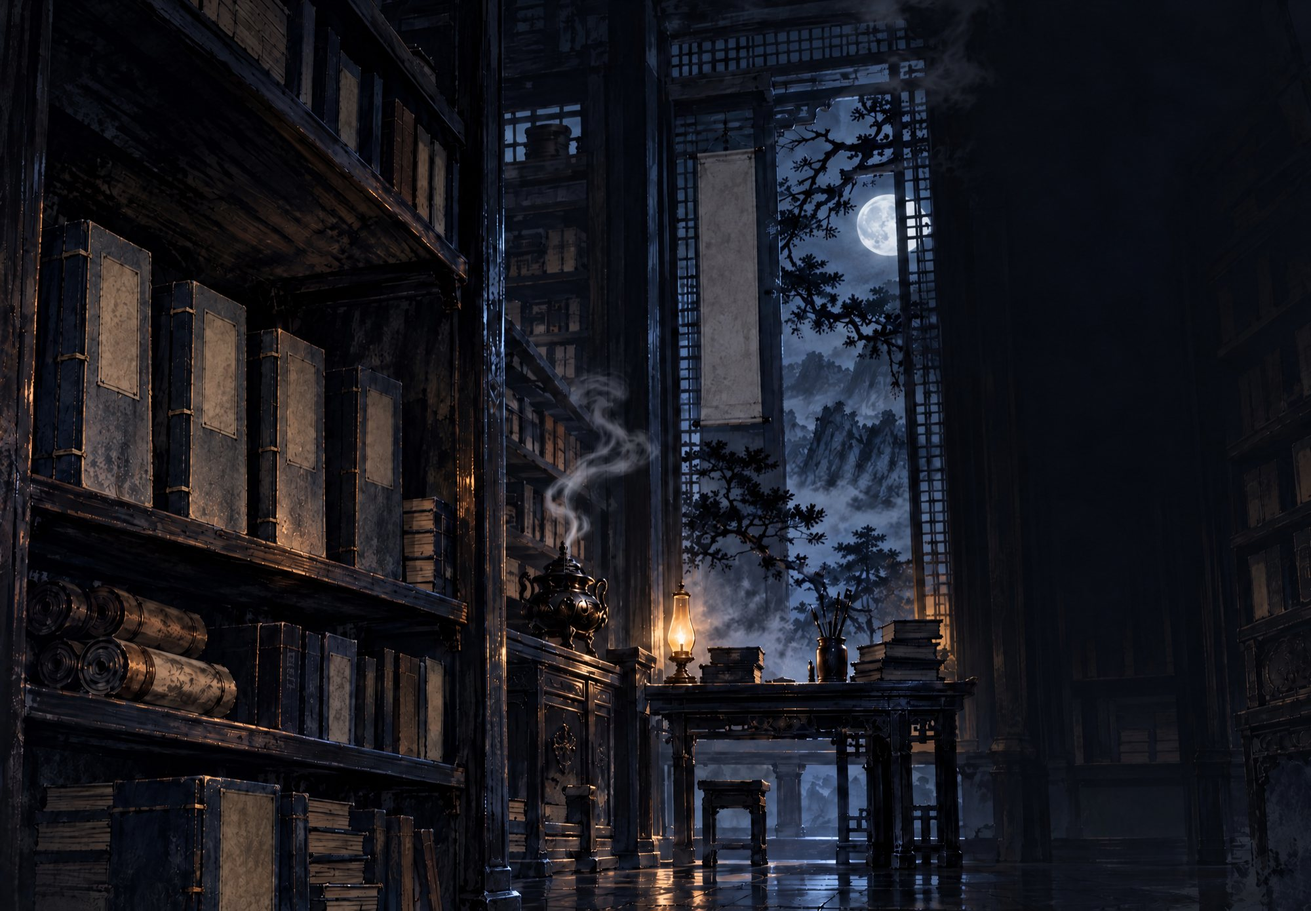
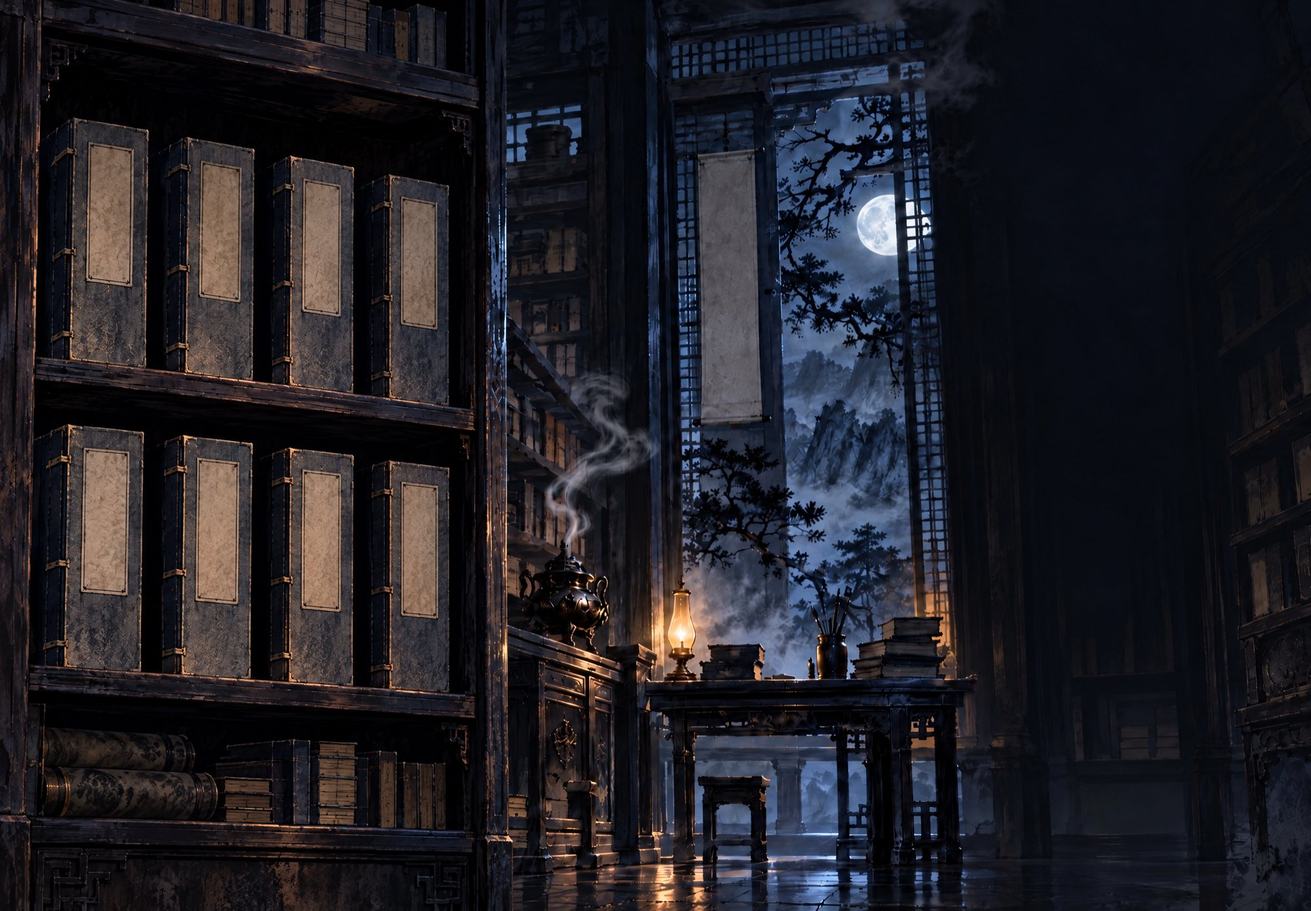
docs(sect-overhaul): 典籍院、天工库改为画中点选，右侧只写选中物卷宗

diff --git a/docs/design/sect-overhaul-prototype.html b/docs/design/sect-overhaul-prototype.html
@@ -198,61 +198,56 @@ button { font: inherit; color: inherit; }
 @keyframes sx-puff { 0% { opacity: 0; transform: translate(0, 0) scale(.5); } 15% { opacity: .8; } 100% { opacity: 0; transform: translate(var(--dx), calc(var(--aw) * -.07)) scale(1.8, 2.4); } }
 
 /* ═══ 典籍院 / 天工库：右侧一列可换之物 + 选中详情 ═══ */
-.sx-list { display: grid; }
-.sx-row { display: flex; align-items: center; gap: 14px; border: 0; background: none; cursor: pointer; padding: 8px 6px 8px 4px; position: relative; text-align: left; color: var(--ink); text-shadow: inherit; opacity: .6; transition: opacity .2s; }
-.sx-row::after { content: ''; position: absolute; left: -4px; right: 0; bottom: 0; height: 3px; background: oklch(0.6 0.02 85 / .22); -webkit-mask: var(--BRUSH) center / 100% 100%; mask: var(--BRUSH) center / 100% 100%; }
-.sx-row svg { width: 26px; height: 26px; flex: none; fill: none; stroke: var(--ink-gold); stroke-width: 1.3; stroke-linecap: round; stroke-linejoin: round; opacity: .8; }
-.sx-row .rn { font-family: var(--font-display); font-size: 17px; letter-spacing: .14em; white-space: nowrap; }
-.sx-row .rp { margin-left: auto; font-size: 12px; letter-spacing: .14em; color: var(--faint); white-space: nowrap; }
-.sx-row .rp b { font-size: 17px; font-weight: 600; letter-spacing: 0; color: var(--ink-gold); margin-right: 4px; }
-.sx-row .rp.own { font-size: 14px; letter-spacing: .3em; color: var(--faint); }
-.sx-row:hover { opacity: .85; }
-.sx-row.on { opacity: 1; background: linear-gradient(to right, oklch(0.78 0.13 78 / .16), oklch(0.78 0.13 78 / .05) 55%, transparent 90%); }
-.sx-row.on svg { opacity: 1; stroke: var(--gold); filter: drop-shadow(0 0 4px oklch(0.78 0.13 78 / .5)); }
-.sx-row.fresh { animation: sx-fresh 1.4s var(--ease); }
-@keyframes sx-fresh { 0% { background: oklch(0.78 0.13 78 / .18); } 100% { background: transparent; } }
-.sx-row:focus-visible { outline: 1.5px solid var(--gold); outline-offset: 2px; }
-.sx-price { display: inline-flex; align-items: baseline; gap: 6px; margin-top: 18px; position: relative; }
-.sx-price b { font-size: 30px; font-weight: 600; color: var(--gold); }
-.sx-price span { font-size: 15px; letter-spacing: .2em; color: var(--muted); }
-.sx-price.short b { color: var(--short); }
-.sx-price.own b { font-size: 20px; letter-spacing: .4em; color: var(--muted); font-weight: 600; }
-/* 列表与详情之间：── ◆ ── */
-.sx-orn { display: flex; align-items: center; gap: 10px; margin: 18px 0 18px; }
-.sx-orn::before, .sx-orn::after { content: ''; flex: 1; height: 1px; }
-.sx-orn::before { background: linear-gradient(to right, transparent, oklch(0.75 0.075 76 / .5)); }
-.sx-orn::after { background: linear-gradient(to left, transparent, oklch(0.75 0.075 76 / .5)); }
-.sx-orn i { width: 7px; height: 7px; transform: rotate(45deg); border: 1px solid oklch(0.75 0.075 76 / .75); position: relative; }
-.sx-orn i::after { content: ''; position: absolute; inset: 1.5px; background: oklch(0.75 0.075 76 / .7); }
-.sx-orn b { width: 3px; height: 3px; transform: rotate(45deg); background: oklch(0.75 0.075 76 / .5); }
-/* 详情卡 */
-.sx-card .nmrow { display: flex; align-items: baseline; gap: 12px; }
-.sx-card h2 { margin: 0; font-family: var(--font-display); font-size: 32px; font-weight: 700; letter-spacing: .16em; line-height: 1.2; white-space: nowrap; }
-.sx-card .gtag { margin-left: auto; flex: none; font-size: 13px; letter-spacing: .14em; color: var(--ink-gold); white-space: nowrap; }
-.sx-chop { display: inline-block; margin-left: 8px; font-family: var(--font-display); font-size: 11px; letter-spacing: .1em; color: oklch(0.95 0.02 85); background: var(--seal-red);
-  padding: 1px 4px; border-radius: 2px; transform: rotate(-4deg) translateY(-2px); text-shadow: none; cursor: help; }
-.sx-attrs { display: grid; grid-template-columns: 1fr 1fr; column-gap: 22px; margin: 14px 0 0; }
-.sx-attrs .a { display: flex; align-items: baseline; gap: 10px; padding: 8px 2px 7px; position: relative; }
-.sx-attrs .a::after { content: ''; position: absolute; left: -4px; right: 0; bottom: 0; height: 3px; background: oklch(0.6 0.02 85 / .26); -webkit-mask: var(--BRUSH) center / 100% 100%; mask: var(--BRUSH) center / 100% 100%; }
+/* ═══ 典籍院 / 天工库：画中货位（函套书签 / 兵器匣面）可点，右侧只写选中物 ═══ */
+.sx-slot { position: absolute; border: 0; padding: 0; background: none; cursor: default; }
+.sx-slot .lit { position: absolute; inset: 0; opacity: 0; mix-blend-mode: screen; transition: opacity .3s, filter .3s; pointer-events: none; }
+.sx-slot .halo { position: absolute; opacity: 0; pointer-events: none; mix-blend-mode: screen; transition: opacity .3s; }
+.sx-slot .nm { position: absolute; display: flex; flex-direction: column; align-items: center; justify-content: center; gap: .12em; writing-mode: vertical-rl; pointer-events: none;
+  font-family: var(--font-body); font-weight: 700; line-height: 1; letter-spacing: .08em; white-space: nowrap; }
+.sx-slot .nm small { font-size: .62em; letter-spacing: .1em; opacity: .85; }
+.sx-slot.on { cursor: pointer; }
+.sx-slot.on .lit { opacity: .55; } .sx-slot.on .halo { opacity: .35; }
+.sx-slot.on:hover .lit { opacity: .78; } .sx-slot.on:hover .halo { opacity: .6; }
+.sx-slot.sel .lit { opacity: .95; filter: brightness(1.15); } .sx-slot.sel .halo { opacity: 1; }
+.sx-slot.on:focus-visible { outline: 1.5px solid var(--gold); outline-offset: 3px; }
+/* 函套：书签是米色纸，墨字；光只铺在纸签上，柔光晕在整只函套 */
+.sx-slot.book .lit { background: radial-gradient(ellipse 85% 70% at 50% 45%, oklch(0.62 0.09 75 / .8), oklch(0.45 0.07 65 / .55)); }
+.sx-slot.book .halo { inset: -22% -70%; background: radial-gradient(ellipse 50% 50% at 50% 50%, oklch(0.72 0.12 72 / .3), transparent 70%); }
+.sx-slot.book .nm { inset: 4% 0; color: oklch(0.2 0.03 50); text-shadow: 0 0 5px oklch(0.88 0.06 80 / .5); }
+/* 兵器匣：漆木匣面，泥金字 */
+.sx-slot.box .lit { background: radial-gradient(ellipse 70% 55% at 50% 40%, oklch(0.55 0.12 50 / .7), oklch(0.35 0.08 35 / .35) 70%, transparent); }
+.sx-slot.box .halo { inset: -6% -40%; background: radial-gradient(ellipse 50% 50% at 50% 45%, oklch(0.7 0.13 65 / .28), transparent 70%); }
+.sx-slot.box .nm { left: 0; right: 0; top: var(--nt); height: var(--nh); color: oklch(0.86 0.1 82); text-shadow: 0 0 6px #000, 0 0 2px #000; }
+.sx-tagl { position: absolute; border-radius: 2px; pointer-events: none; opacity: 0; mix-blend-mode: screen; transition: opacity .3s;
+  background: radial-gradient(ellipse 70% 60% at 50% 45%, oklch(0.62 0.1 70 / .8), oklch(0.45 0.08 60 / .4)); }
+.sx-tagl.on { opacity: .55; } .sx-tagl.sel { opacity: .95; }
+/* 已得：画中落一枚小朱印 */
+.sx-seal { position: absolute; left: 50%; bottom: 3%; transform: translateX(-50%) rotate(-6deg); writing-mode: vertical-rl; pointer-events: none;
+  font-family: var(--font-display); font-weight: 700; line-height: 1.05; letter-spacing: 0; padding: .18em .1em; border-radius: 2px;
+  color: oklch(0.95 0.02 85); background: oklch(0.5 0.17 28 / .9); box-shadow: 0 0 0 1px oklch(0.5 0.17 28 / .5); }
+.sx-slot.box .sx-seal { bottom: auto; top: calc(var(--nt) + var(--nh) + 2%); }
+.sx-slot.own .nm { opacity: .78; }
+.sx-slot.book.own .nm { bottom: 26%; }
+.sx-seal.pop { animation: sx-stamp .55s var(--ease); }
+@keyframes sx-stamp { 0% { opacity: 0; transform: translateX(-50%) rotate(-6deg) scale(2.2); } 100% { opacity: 1; transform: translateX(-50%) rotate(-6deg) scale(1); } }
+/* 右侧卷宗：细暗金线分节 */
+.sx-rule { height: 1px; margin: 18px 0; background: linear-gradient(to right, oklch(0.75 0.075 76 / .45), oklch(0.75 0.075 76 / .22) 70%, transparent); }
+.sx-attrs { display: grid; grid-template-columns: 1fr 1fr; column-gap: 22px; row-gap: 12px; margin: 0; }
+.sx-attrs .a { display: flex; align-items: baseline; gap: 10px; }
 .sx-attrs .a.wide { grid-column: 1 / -1; }
 .sx-attrs dt { font-size: 14px; letter-spacing: .08em; color: var(--faint); white-space: nowrap; }
 .sx-attrs dd { margin: 0; font-size: 18px; font-weight: 600; color: var(--ink); white-space: nowrap; }
 .sx-attrs .a.wide dd { font-size: 16px; }
 .sx-attrs dd[data-tip] { cursor: help; }
 .sx-attrs dd[data-tip]:hover { color: var(--gold); }
+.sx-chop { display: inline-block; font-family: var(--font-display); font-size: 13px; font-weight: 700; letter-spacing: .1em; color: oklch(0.95 0.02 85); background: var(--seal-red);
+  padding: 2px 5px; border-radius: 2px; transform: rotate(-4deg); text-shadow: none; }
+.sx-cost { display: flex; align-items: baseline; gap: 8px; font-size: 15px; letter-spacing: .2em; color: var(--muted); position: relative; }
+.sx-cost b { font-size: 26px; font-weight: 600; letter-spacing: 0; color: var(--gold); }
+.sx-cost.short b { color: var(--short); cursor: help; }
+.sx-cost.own { color: var(--muted); letter-spacing: .5em; font-family: var(--font-display); font-size: 18px; }
 .sx-card .scroll-btn { margin-top: 20px; }
-.sx-own { display: block; width: max-content; margin: 22px auto 0; padding: 7px 16px 7px 22px; font-family: var(--font-display); font-size: 18px; font-weight: 700; letter-spacing: .5em;
-  color: var(--cinnabar); border: 1.5px solid oklch(0.66 0.14 32 / .7); border-radius: 3px; transform: rotate(-4deg); text-shadow: none; opacity: .85; }
-.sx-own-gap { height: 74px; display: flex; align-items: center; }
-/* 货多（地位高）时收紧行距，按钮不压到底边 */
-.sx-insc.dense .sx-row { padding: 4px 6px 4px 4px; }
-.sx-insc.dense .sx-row svg { width: 22px; height: 22px; }
-.sx-insc.dense .sx-orn { margin: 12px 0 12px; }
-.sx-insc.dense .sx-card h2 { font-size: 28px; }
-.sx-insc.dense .sx-desc { margin-top: 8px; line-height: 1.7; }
-.sx-insc.dense .sx-attrs { margin-top: 8px; }
-.sx-insc.dense .sx-attrs .a { padding: 5px 2px 4px; }
-.sx-insc.dense .scroll-btn { margin-top: 14px; height: 62px; }
+.sx-own-gap { height: 92px; }
 
 /* 操作反馈：浮在对象旁 */
 .sx-float { position: absolute; transform: translate(-50%, -50%); pointer-events: none; white-space: nowrap; z-index: 8; font-family: var(--font-display); font-size: 20px; font-weight: 700; letter-spacing: .2em;
@@ -329,9 +324,10 @@ button { font: inherit; color: inherit; }
   </section>
 
   <!-- 典籍院 / 天工库（同一格局，换底图与货） -->
-  <section class="sx-view" id="vShop" data-img="hall-dianji.jpg" data-over="1.18" data-anchor="1" data-dark=".73">
+  <section class="sx-view" id="vShop" data-img="hall-dianji.jpg" data-over="1" data-anchor="0" data-dark=".73" data-vy=".6" data-tmin="252">
     <div class="sx-art">
       <div class="sx-pic"><div class="img"></div><div class="tone"></div><div class="vig"></div></div>
+      <div id="slots"></div>
     </div>
     <div class="sx-shade"><div class="sx-paper"></div></div>
     <header class="sx-head">
@@ -371,28 +367,43 @@ const GATES = [
    装备 = engine/gear.ts rollBase：兵器重型 攻击 = 0.036 × 100 × 1.7^(当量−1) × GRADE_BASE × 1.08（浮动取中值 1.0）；词条取区间中值 × GRADE_AFFIX
    价格是占位 */
 const GRADE_COLOR = { 上乘: 'oklch(0.78 0.09 215)', 极品: 'oklch(0.72 0.16 50)' };
+const NG_TIP = { qi: '真气上限倍率', hh: '每重火候折合境界的倍率' };
+const ROUTE_TIP = { 狂澜: '快剑爆发 · 短战最强', 惊鸿: '身法奇快 · 一招多击' };
+/* 货位坐标（占画幅 %）
+   典籍院：s = 书签纸面 [左, 上, 宽, 高]，书名写在这里
+   天工库：s = 匣面 [左, 上, 宽, 高]（点选范围），n = 名字区 [上, 高]（匣面中上部、门环之上），t = 匣下小木牌 [左, 上, 宽, 高] */
 const SHOPS = {
-  dianji: { title: '典籍院', img: 'hall-dianji.jpg', items: [
-    { n: '疾雨剑法', g: '寻常 · 剑法', ic: 'sword', p: 300, lv: 1, desc: '檐声急雨，剑影疏灯。',
+  dianji: { title: '典籍院', img: 'hall-dianji.jpg', kind: 'book', slots: [
+    { s: [6.65, 15.7, 3.45, 15.7] }, { s: [15.25, 17.8, 3.05, 15.25] }, { s: [23.05, 19.6, 2.9, 15.1] }, { s: [30.55, 21.6, 2.7, 14.4] },
+    { s: [6.25, 49.1, 3.6, 16.0] }, { s: [14.95, 50.4, 3.2, 15.8] }, { s: [22.95, 51.6, 2.95, 16.0] }, { s: [30.55, 53.0, 2.8, 15.5] } ],
+    items: [
+    { n: '疾雨剑法', g: '寻常 · 剑法', p: 300, lv: 1, desc: '檐声急雨，剑影疏灯。',
       at: [['伤害倍率', '×148%'], ['触发几率', '12%'], ['真气消耗', '190'], ['附加特效', '连击', '第一式 44% 追加一次普攻']] },
-    { n: '百川诀', g: '入门 · 内功', ic: 'book', p: 0, lv: 1, desc: '纳百川入丹田，涓滴汇海，久久自成气象。',
-      at: [['气海', '×1.0', '真气上限倍率'], ['火候', '×1.00', '每重折合境界的倍率'], ['会心率', '+10%', '狂澜一路'], ['会心伤害', '+20%', '狂澜一路']] },
-    { n: '惊鸿照影剑 · 残页', t: '惊鸿照影剑', g: '上乘 · 剑法残页', ic: 'leaf', p: 600, lv: 2, desc: '惊鸿曾照影，剑过不留痕。',
+    { n: '百川诀', g: '入门 · 内功', p: 0, lv: 1, desc: '纳百川入丹田，涓滴汇海，久久自成气象。', route: '狂澜',
+      at: [['气海', '×1.0', NG_TIP.qi], ['火候', '×1.00', NG_TIP.hh]] },
+    { n: '惊鸿照影剑', sub: '残页', g: '上乘 · 剑法残页', p: 600, lv: 2, desc: '惊鸿曾照影，剑过不留痕。',
       at: [['伤害倍率', '×190%'], ['触发几率', '9%'], ['真气消耗', '400'], ['附加特效', '回气', '第一式返还耗气 50%']] },
-    { n: '沧海功', g: '进阶 · 内功', ic: 'book', p: 1800, lv: 3, desc: '气如沧海潮生，一呼一吸之间，有吞吐浪涛之势。',
-      at: [['气海', '×1.1', '真气上限倍率'], ['火候', '×1.02', '每重折合境界的倍率'], ['会心率', '+10%', '狂澜一路'], ['会心伤害', '+20%', '狂澜一路']] },
-    { n: '飞泉诀', g: '进阶 · 内功', chop: '惊鸿', ic: 'book', p: 1800, lv: 3, desc: '借山间飞泉之意，气走如瀑，一落未尽，一落又起。',
-      at: [['气海', '×1.1', '真气上限倍率'], ['火候', '×1.02', '每重折合境界的倍率'], ['追加几率', '30%', '每次出手后追加一击'], ['追加倍率', '65%', '追加一击的伤害']] },
-    { n: '苍崖九叠剑 · 残页', t: '苍崖九叠剑', g: '绝学 · 剑法残页', ic: 'leaf', p: 2400, lv: 4, desc: '苍崖云九叠，孤剑雪千秋。',
+    { n: '沧海功', g: '进阶 · 内功', p: 1800, lv: 3, desc: '气如沧海潮生，一呼一吸之间，有吞吐浪涛之势。', route: '狂澜',
+      at: [['气海', '×1.1', NG_TIP.qi], ['火候', '×1.02', NG_TIP.hh]] },
+    { n: '飞泉诀', g: '进阶 · 内功', p: 1800, lv: 3, desc: '借山间飞泉之意，气走如瀑，一落未尽，一落又起。', route: '惊鸿',
+      at: [['气海', '×1.1', NG_TIP.qi], ['火候', '×1.02', NG_TIP.hh]] },
+    { n: '苍崖九叠剑', sub: '残页', g: '绝学 · 剑法残页', p: 2400, lv: 4, desc: '苍崖云九叠，孤剑雪千秋。',
       at: [['伤害倍率', '×236%'], ['触发几率', '3%'], ['真气消耗', '550'], ['附加特效', '必暴', '第一式必定会心 · 会心伤害 +5%']] },
-    { n: '落星沉海剑 · 残页', t: '落星沉海剑', g: '绝学 · 剑法残页', ic: 'leaf', p: 2400, lv: 4, desc: '星垂沧海夜，剑落暮潮寒。',
+    { n: '落星沉海剑', sub: '残页', g: '绝学 · 剑法残页', p: 2400, lv: 4, desc: '星垂沧海夜，剑落暮潮寒。',
       at: [['伤害倍率', '×236%'], ['触发几率', '5%'], ['真气消耗', '550'], ['附加特效', '蓄势', '本场每出过一招，本式倍率 +10%']] },
-    { n: '沧溟真经', g: '镇派 · 内功', ic: 'book', p: 6000, lv: 5, desc: '苍崖历代掌门心血所凝，修到深处，内息如沧溟无底。',
-      at: [['气海', '×1.2', '真气上限倍率'], ['火候', '×1.04', '每重折合境界的倍率'], ['会心率', '+10%', '狂澜一路'], ['会心伤害', '+20%', '狂澜一路']] } ] },
-  tiangong: { title: '天工库', img: 'hall-tiangong.jpg', items: [
-    { n: '松纹剑', g: '兵器 · 剑', grade: '上乘', ic: 'blade', p: 900, lv: 2, desc: '采苍崖后山寒铁所铸，剑身隐有古松纹理。',
+    { n: '沧溟真经', g: '镇派 · 内功', p: 6000, lv: 5, desc: '苍崖历代掌门心血所凝，修到深处，内息如沧溟无底。', route: '狂澜',
+      at: [['气海', '×1.2', NG_TIP.qi], ['火候', '×1.04', NG_TIP.hh]] } ] },
+  tiangong: { title: '天工库', img: 'hall-tiangong.jpg', kind: 'box', slots: [
+    { s: [4.75, 14.4, 4.75, 54.7], n: [5, 40], t: [4.35, 74.8, 2.3, 7.8] },
+    { s: [11.5, 20.9, 4.5, 49.6], n: [5, 40], t: [11.75, 76.3, 2.0, 6.8] },
+    { s: [17.75, 25.9, 3.65, 46], n: [5, 40], t: [18.0, 76.8, 1.75, 6.6] },
+    { s: [23, 30.9, 3, 42.1], n: [5, 40], t: [23.25, 77.6, 1.5, 6.3] },
+    { s: [27.4, 35.3, 2.5, 38.5], n: [5, 40], t: [27.75, 78.1, 1.35, 6.0] },
+    { s: [31.25, 38.5, 2, 36], n: [5, 40], t: [31.5, 78.6, 1.25, 5.6] } ],
+    items: [
+    { n: '松纹剑', g: '兵器 · 剑', grade: '上乘', p: 900, lv: 2, desc: '采苍崖后山寒铁所铸，剑身隐有古松纹理。',
       at: [['攻击', '17'], ['品阶', '上乘'], ['词条', '攻击 +2% · 会心率 +1%', null, true]] },
-    { n: '听涛剑', g: '兵器 · 剑', grade: '极品', ic: 'blade', p: 4800, lv: 5, desc: '剑成之日置于崖顶七夜，挥动时隐有松涛之声。',
+    { n: '听涛剑', g: '兵器 · 剑', grade: '极品', p: 4800, lv: 5, desc: '剑成之日置于崖顶七夜，挥动时隐有松涛之声。',
       at: [['攻击', '76'], ['品阶', '极品'], ['词条', '攻击 +2% · 会心伤害 +2%', null, true]] } ] },
 };
 const LORE = {
@@ -404,12 +415,6 @@ const LORE = {
   赴论剑会: '江湖诸派齐聚论剑，代本门登台，胜负关乎苍崖声名。',
 };
 const PAPER = '剑者心之器也藏锋于鞘不露其芒苍崖之上云起九叠孤松立雪寒泉漱石门中弟子晨起洒扫暮而习剑寒暑不辍凡入门者先修其心后习其技心正则剑正心乱则剑乱古之剑客重诺轻生一言既出千金不易';
-const ICON = {
-  sword: '<svg viewBox="0 0 26 26"><path d="M21.5 4.5 9 17"/><path d="M21.5 4.5 20 9.5 10.5 19 7 15.5 16.5 6Z"/><path d="M6 14.5 11.5 20M8 18l-3.5 3.5"/></svg>',
-  blade: '<svg viewBox="0 0 26 26"><path d="M13 2.5v15"/><path d="M11 4.5 13 2.5l2 2v13h-4Z"/><path d="M8.5 17.5h9M13 17.5v5.5"/><circle cx="13" cy="23.5" r=".8"/></svg>',
-  book: '<svg viewBox="0 0 26 26"><path d="M6 4.5h12.5v17H6Z"/><path d="M8.5 4.5v17"/><path d="M11.5 8h4.5v6.5h-4.5Z"/><path d="M6 8H4.8M6 13H4.8M6 18H4.8"/></svg>',
-  leaf: '<svg viewBox="0 0 26 26"><path d="M7 4.5h9.5l3 3V21H7Z"/><path d="M16.5 4.5v3h3"/><path d="M10 10.5h6M10 13.5h6M10 16.5h3.5"/><path d="M19.5 15.5 17 18l2.5 1.5"/></svg>',
-};
 
 let S = { rank: 3, bal: 860, rich: false, view: 'map', shop: 'dianji', sel: 3, dur: 2, run: null, pick: {}, owned: new Set(['百川诀']), seen: new Set(['hall', 'dianji', 'tiangong']), fresh: new Set() };
 const RUN_MOCK = () => ({ tier: 3, dur: 2, start: Date.now() - 37 * 60e3 });
@@ -424,13 +429,13 @@ function place() {
   document.querySelectorAll('.sx-view').forEach(v => {
     const over = +v.dataset.over, anc = +v.dataset.anchor;
     const aw = Math.max(W, Math.min(W * over, H * R)), ah = aw / R;
-    const ax = (W - aw) * anc, ay = ah > H ? (H - ah) * 0.45 : 0;
+    const ax = (W - aw) * anc, ay = ah > H ? (H - ah) * 0.45 : (H - ah) * (+v.dataset.vy || 0);
     const a = v.querySelector('.sx-art');
     a.style.setProperty('--aw', `${aw}px`); a.style.setProperty('--ah', `${ah}px`);
     a.style.setProperty('--ax', `${ax}px`); a.style.setProperty('--ay', `${ay}px`);
     // 题跋落在画右侧约 35% 的暗区；暗区窄时题跋收窄，压暗层跟着加宽
     const darkL = ax + aw * (+v.dataset.dark || 0.68);
-    const tw = Math.max(272, Math.min(330, W - 40 - darkL));
+    const tw = Math.max(+v.dataset.tmin || 272, Math.min(330, W - 40 - darkL));
     v.style.setProperty('--tw', `${tw}px`);
     v.style.setProperty('--sw', `${Math.min(62, (tw + 150) / W * 100)}%`);
     v.style.setProperty('--ty', `${Math.max(96, Math.min(H * 0.15, 150))}px`);
@@ -522,38 +527,53 @@ function floatTab(lv, text, cls = '') {
 
 /* ───────── 典籍院 / 天工库 ───────── */
 function drawShop() {
-  const sh = SHOPS[S.shop], items = sh.items.filter(it => it.lv <= S.rank);
+  const sh = SHOPS[S.shop], k = sh.kind;
   const owned = it => S.owned.has(it.n);
+  const open = sh.items.filter(it => it.lv <= S.rank);
   let pick = S.pick[S.shop];
-  if (!items.find(it => it.n === pick)) pick = (items.find(it => !owned(it)) || items[0]).n;
+  if (!open.find(it => it.n === pick)) pick = (open.find(it => !owned(it)) || open[0]).n;
   S.pick[S.shop] = pick;
-  const it = items.find(x => x.n === pick), own = owned(it), short = !own && S.bal < it.p;
-  const gc = x => x.grade ? ` style="color:${GRADE_COLOR[x.grade]}"` : '';
-  const title = it.t || it.n;
-  $('shopInsc').classList.toggle('dense', items.length > 6);
-  $('shopInsc').innerHTML = `<div class="sx-list">${items.map(x => `<button class="sx-row${x.n === pick ? ' on' : ''}${S.fresh.has(x.n) ? ' fresh' : ''}" data-n="${x.n}">${ICON[x.ic]}<span class="rn"${gc(x)}>${x.n}</span>${
-      owned(x) ? '<span class="rp own">已得</span>' : `<span class="rp"><b>${x.p}</b>贡献</span>`}</button>`).join('')}</div>
-    <div class="sx-orn"><b></b><i></i><b></b></div>
-    <div class="sx-card">
-      <div class="nmrow"><h2 style="font-size:${title.length > 4 ? 28 : 32}px${it.grade ? `;color:${GRADE_COLOR[it.grade]}` : ''}">${title}</h2>
-        <span class="gtag">${it.g}${it.chop ? `<span class="sx-chop" data-tip="兼修惊鸿一路">${it.chop}</span>` : ''}</span></div>
+  // 画中货位：按货架顺序装条目，未解锁 / 空位留白不亮
+  $('slots').innerHTML = sh.slots.map((sl, i) => {
+    const it = sh.items[i], on = it && it.lv <= S.rank, [l, t, w, h] = sl.s;
+    const sel = on && it.n === pick, own = on && owned(it);
+    const chars = on ? it.n.length : 3;
+    // 字号随货位透视缩放：受宽（残页多一列小字）与高（字数）双重约束
+    const fs = k === 'book'
+      ? `min(calc(var(--aw) * ${(w / 100 / (it && it.sub ? 1.75 : 1.6)).toFixed(4)}), calc(var(--ah) * ${(h / 100 / (chars + (it && it.sub ? 0.6 : 0.8))).toFixed(4)}))`
+      : `min(calc(var(--aw) * ${(w / 100 / 1.9).toFixed(4)}), calc(var(--ah) * ${(h / 100 * sl.n[1] / 100 / (chars + 0.6)).toFixed(4)}))`;
+    const nm = on ? `<span class="nm" style="font-size:${fs}${k === 'box' ? `;--nt:${sl.n[0]}%;--nh:${sl.n[1]}%` : ''}">${it.n}${it.sub ? `<small>${it.sub}</small>` : ''}</span>` : '';
+    const seal = own ? `<span class="sx-seal${S.fresh.has(it.n) ? ' pop' : ''}" style="font-size:calc(var(--aw) * ${(w / 100 * (k === 'book' ? .36 : .34)).toFixed(4)})">已得</span>` : '';
+    const tag = sl.t ? `<span class="sx-tagl${on ? ' on' : ''}${sel ? ' sel' : ''}" style="left:${sl.t[0]}%;top:${sl.t[1]}%;width:${sl.t[2]}%;height:${sl.t[3]}%"></span>` : '';
+    return `<button class="sx-slot ${k}${on ? ' on' : ''}${sel ? ' sel' : ''}${own ? ' own' : ''}" ${on ? `data-n="${it.n}"` : 'tabindex="-1" aria-hidden="true"'}
+      style="left:${l}%;top:${t}%;width:${w}%;height:${h}%${k === 'box' ? `;--nt:${sl.n[0]}%;--nh:${sl.n[1]}%` : ''}"><span class="halo"></span><span class="lit"></span>${nm}${seal}</button>${tag}`;
+  }).join('');
+  $('slots').querySelectorAll('.sx-slot.on').forEach(b => b.onclick = () => { S.pick[S.shop] = b.dataset.n; drawShop(); });
+  // 右侧卷宗：只写选中物
+  const it = open.find(x => x.n === pick), own = owned(it), short = !own && S.bal < it.p;
+  const title = it.n;
+  const attrs = it.at.map(([a, v, tip, wide]) => `<div class="a${wide ? ' wide' : ''}"><dt>${a}</dt><dd${tip ? ` data-tip="${tip}"` : ''}>${v}</dd></div>`).join('')
+    + (it.route ? `<div class="a"><dt>源流</dt><dd data-tip="${ROUTE_TIP[it.route]}"><span class="sx-chop">${it.route}</span></dd></div>` : '');
+  $('shopInsc').innerHTML = `<div class="sx-card">
+      <h2 class="sx-big" style="font-size:${title.length > 4 ? 34 : 40}px${it.grade ? `;color:${GRADE_COLOR[it.grade]}` : ''}">${title}${it.sub ? `<small style="font-size:.55em;letter-spacing:.2em;margin-left:.4em;color:var(--muted)">${it.sub}</small>` : ''}</h2>
+      <div class="sx-tag">〔${it.g}〕</div>
       <p class="sx-desc">${it.desc}</p>
-      <dl class="sx-attrs">${it.at.map(([k, v, tip, wide]) => `<div class="a${wide ? ' wide' : ''}"><dt>${k}</dt><dd${tip ? ` data-tip="${tip}"` : ''}>${v}</dd></div>`).join('')}</dl>
-      ${own ? '<div class="sx-own-gap"><span class="sx-own">已得</span></div>'
-        : `<button class="scroll-btn" id="buy" ${short ? `aria-disabled="true" data-tip="还差 ${it.p - S.bal} 贡献"` : ''}>兑换</button>`}
+      <div class="sx-rule"></div>
+      <dl class="sx-attrs">${attrs}</dl>
+      <div class="sx-rule"></div>
+      ${own ? '<div class="sx-cost own">已得</div><div class="sx-own-gap"></div>'
+        : `<div class="sx-cost${short ? ' short' : ''}" id="cost">需<b ${short ? `data-tip="还差 ${it.p - S.bal} 贡献"` : ''}>${it.p}</b>贡献</div>
+           <button class="scroll-btn" id="buy" ${short ? `aria-disabled="true" data-tip="还差 ${it.p - S.bal} 贡献"` : ''}>兑换</button>`}
     </div>`;
   S.fresh.clear();
-  $('shopInsc').querySelectorAll('.sx-row').forEach(b => b.onclick = () => { S.pick[S.shop] = b.dataset.n; drawShop(); });
-  const rowPrice = $('shopInsc').querySelector('.sx-row.on .rp');
-  if (short && rowPrice) rowPrice.querySelector('b').style.color = 'var(--short)';
   const buy = $('buy');
   if (buy) buy.onclick = () => {
     if (short) return;
-    const pr = rowPrice.getBoundingClientRect(), box = $('vShop').getBoundingClientRect();
+    const pr = $('cost').querySelector('b').getBoundingClientRect(), box = $('vShop').getBoundingClientRect();
     S.bal -= it.p; S.owned.add(it.n); S.fresh.add(it.n);
     drawShop(); drawStand();
     const f = document.createElement('div'); f.className = 'sx-float num'; f.textContent = `−${it.p}`;
-    f.style.left = `${pr.left - box.left + pr.width / 2}px`; f.style.top = `${pr.top - box.top - 4}px`;
+    f.style.left = `${pr.left - box.left + pr.width / 2}px`; f.style.top = `${pr.top - box.top}px`;
     $('vShop').appendChild(f); setTimeout(() => f.remove(), 1800);
   };
   bindTips($('shopInsc'));
